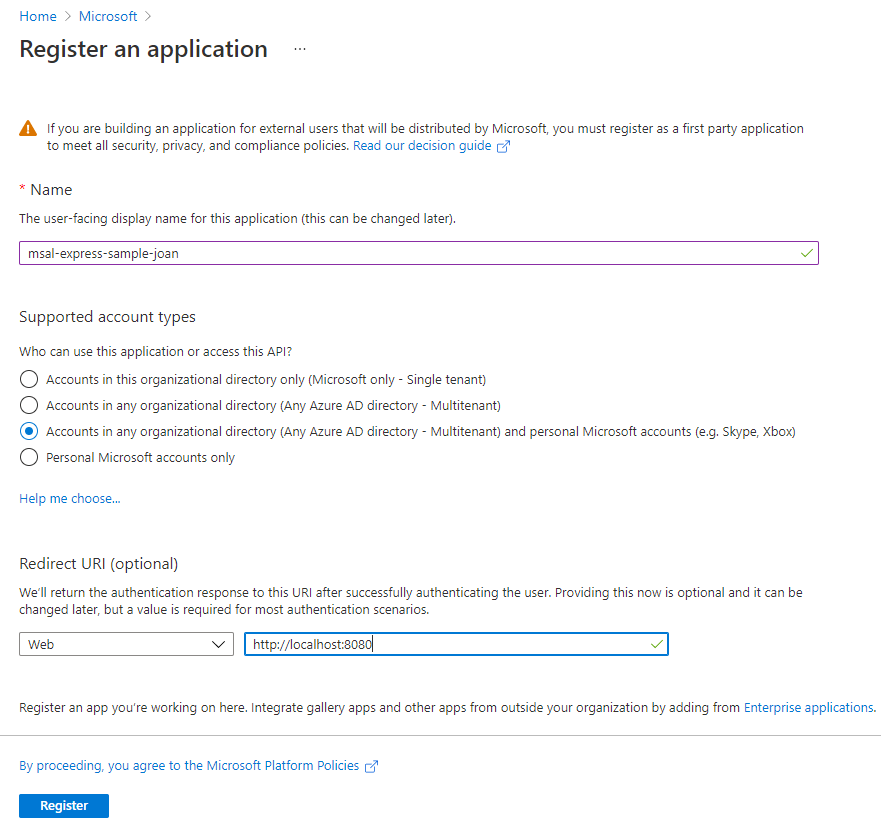
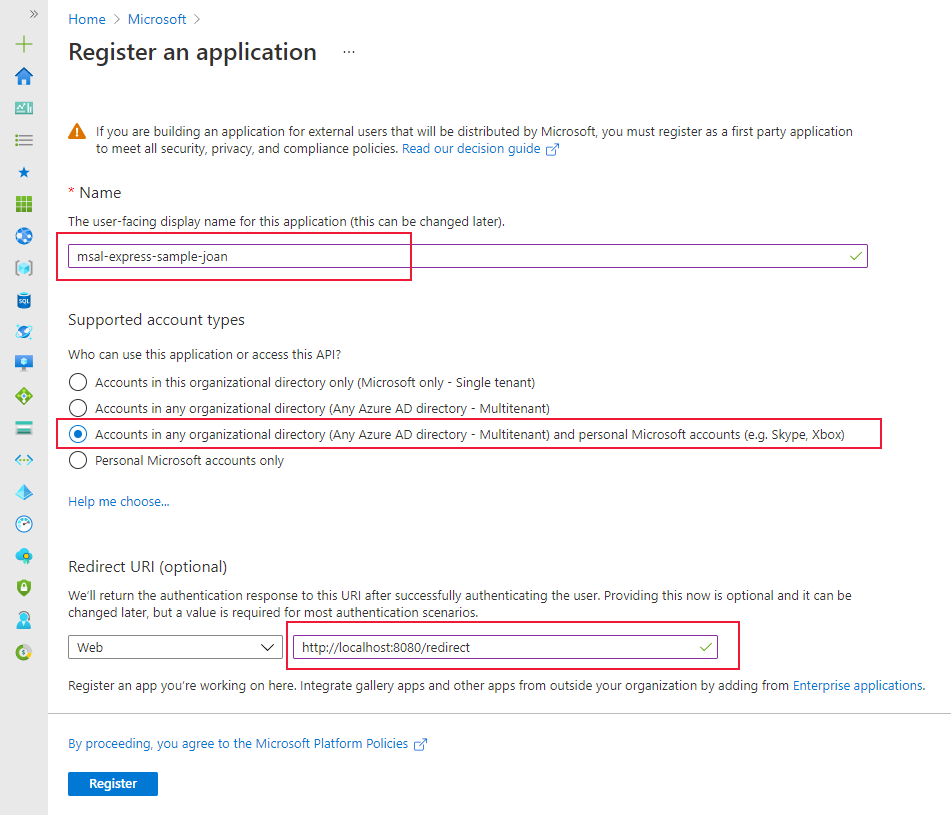
edits

Changed region(s): [[0.0, 0.2147, 1.0, 0.8589], [0.0, 0.0, 0.9194, 0.2147], [0.0, 0.8896, 0.4597, 0.9816]]

diff --git a/articles/javascript/how-to/with-web-app/deploy-msal-sdk-authentication-expressjs.md b/articles/javascript/how-to/with-web-app/deploy-msal-sdk-authentication-expressjs.md
@@ -17,7 +17,7 @@ Learn how to deploy an Express.js app, integrated with Microsoft Authentication 
 
 The sample Express.js web app uses the Embedded JavaScript templates (EJS) template engine to deliver server-side rendered HTML to allow users to sign in with the Microsoft Identity provider. Authentication is provided with the [@azure/msal-node](https://www.npmjs.com/package/@azure/msal-node) npm package to provide:
 
-* Sign-in and sign-out
+* Sign in and sign out
 * Route restrictions to only authenticated users
 * Query a restricted API with user - such as Graph
 
@@ -131,30 +131,32 @@ Create an Active Directory app to authenticate users with the Microsoft Identity
     |Setting|Value|
     |--|--|
     |Name|Enter a name such as `msal-express-sample` and postpend your name at the end so you can easily search for it later.|
-    |Supported account types|Select **Accounts in any organizational directory (Any Azure AD directory - Multitenant) and personal Microsoft accounts (e.g. Skype, Xbox)**. This allows anyone within the Microsoft Identity provider to access your web app. Learn more about [these choices](/azure/active-directory/develop/single-and-multi-tenant-apps).|
-    |Web Redirect URI|Enter your local redirect URL:`http://localhost:8080`|
+    |Supported account types|Select **Accounts in any organizational directory (Any Azure AD directory - Multitenant) and personal Microsoft accounts**. This allows anyone within the Microsoft Identity provider to access your web app. Learn more about [these choices](/azure/active-directory/develop/single-and-multi-tenant-apps).|
+    |Web Redirect URI|Enter your local redirect URL:`http://localhost:8080/redirect`|
 
     :::image type="content" source="../../media/express-app-msal-auth/azure-portal-app-service-add-identity-provider-any-directory.png" alt-text="Screenshot of Azure portal. Configure Authentication for the Microsoft provider with a new app registration for any Azure AD Directory and personal account.":::
 
 1. Select **Register** to finish the process. 
 
-1. When the process completes, still in the Azure portal for your new Active Directory app registration, select **Authentication** to add your Azure web app's redirect URL then select **Save**.
+1. When the process completes, still in the Azure portal for your new Active Directory app registration, select **Authentication** to add your Azure web app's redirect URL then select **Save**. 
+
+    For example, `https://msal-joan.azurewebsites.net/redirect`.
 
     :::image type="content" source="../../media/express-app-msal-auth/azure-portal-active-directory-app-add-app-service-redirect-url.png" alt-text="Screenshot of Azure portal. When the process completes, still in the Azure portal for your new Active Directory app registration, select **Authentication** to add your Azure app service's redirect URL then select **Save**.":::
 
 
-1. Copy the following values to a note file to use later in your Express.js app:
+1. Copy the following values to a note file to use later:
 
     |Property|Location|
     |--|--|
-    |Application (client) ID|Overview page, Essentials section|
-    |Directory (tenant) ID|Overview page, Essentials section|
-    |Client secret|Follow the next step|
+    |Application (client) ID|Azure portal Active Directory app, Overview page, Essentials section|
+    |Directory (tenant) ID|Azure portal Active Directory app, Overview page, Essentials section|
+    |Client secret|Azure portal Active Directory app, Follow the next step|
 
 1. Select **Certificates and secrets** then select **New client secret** to create a new secret. 
 1. Enter the secret's name that reminds you it was created for the Express.js authentication tutorial, such as `expressjs-msal-tutorial` and immediately copy the secret. 
 1. Select the default **Expires** setting, then select **Add**.
-1. In the **Client secrets** section, on the row for your new secret, copy the secret to your clipboard, then paste in your note file with your other settings. If you lose the secret, you need to create a new secret.
+1. In the **Client secrets** section, copy the secret then paste in your note file with your other settings. If you lose the secret, you need to create a new secret.
 1. Copy these three values from your note file to the `./appSettings` file for the `credentials` properties. Post the values into the hard-coded string, used only for local development. 
 
     ```json
@@ -248,7 +250,7 @@ This tutorial demonstrated deploying an MSAL-enabled Express.js app. You can con
 ## Clean up resources
 
 1. Select this link to [go to App registrations](https://ms.portal.azure.com/#blade/Microsoft_AAD_IAM/ActiveDirectoryMenuBlade/RegisteredApps) for your default tenant. 
-1. Search for your app, perhaps named something like `msal-express-sample`.
+1. Search for your app, named something like `msal-express-sample`.
 1. On the Active Directory app's Overview page, select **Delete**.
 1. In VS Code, in the Azure side bar, select your Azure App Service, then select **Delete** 
 
